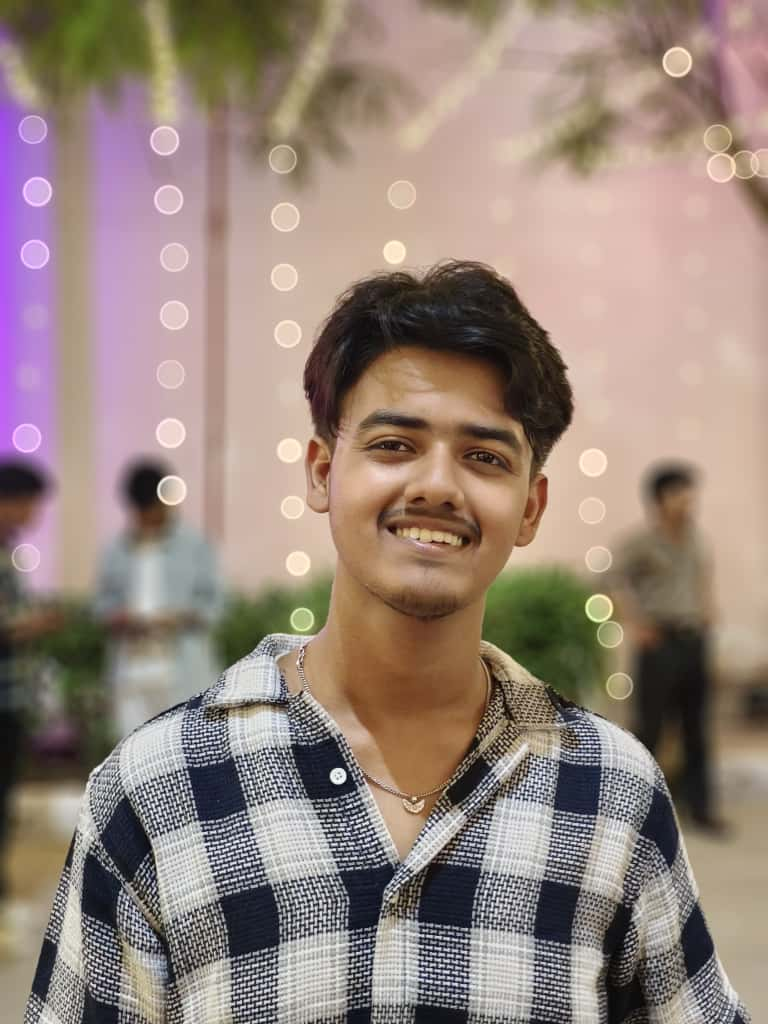
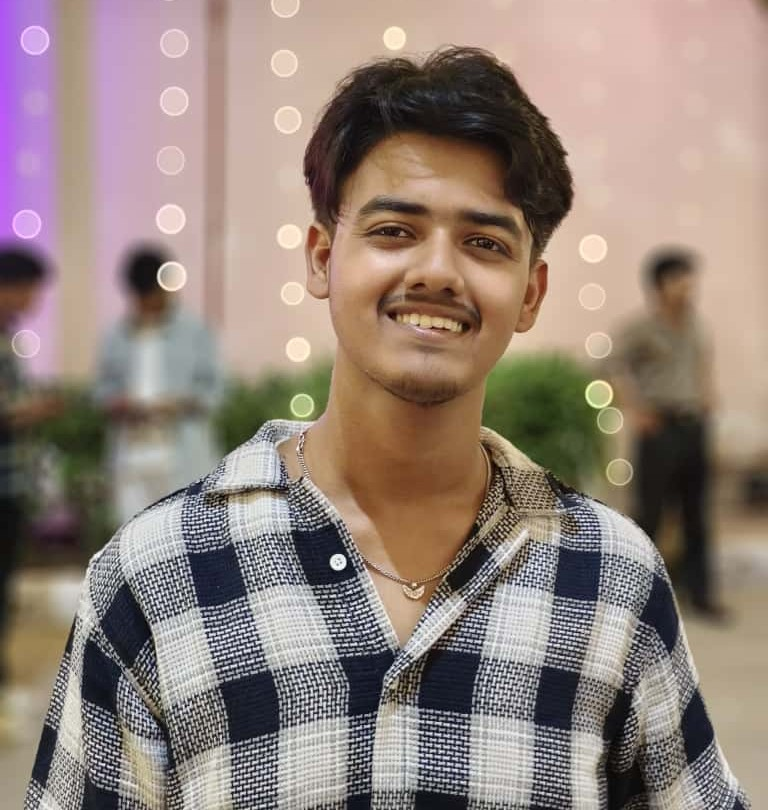
Update Hero section with new PixelFrame component for profile image display, enhance layout and styling, and adjust action button sizes. Replace CampfireObject with improved structure for a cleaner presentation. Update profile image in public directory.

diff --git a/src/components/sections/Hero.jsx b/src/components/sections/Hero.jsx
@@ -1,19 +1,17 @@
 import { profile } from "../../data/profile";
 import { PixelButton } from "../ui/PixelButton";
-import { CampfireObject } from "../world/WorldObjects";
 import { StatusBanner } from "../ui/StatusBanner";
+import { PixelFrame } from "../ui/PixelFrame";
 
 /**
- * Area 1: HOME / START — The Campfire Clearing
- * The starting point of the developer journey. Cozy, welcoming, establishing tone and identity.
+ * Area 1: HOME / START — The Developer Hearth
+ * Features the 2D pixel-art framed portrait side-by-side beside the name, title, subtitle, and action buttons.
  */
 export function Hero() {
   return (
-    <section
-      className="relative min-h-[90vh] flex flex-col items-center text-center px-4 pt-0 pb-16 sm:pb-24"
-    >
+    <section className="relative min-h-[90vh] flex flex-col items-center justify-between px-4 pt-0 pb-12 sm:pb-20">
       {/* Floating Medieval Status Signboard Suspended Directly From Top Navbar */}
-      <div className="w-full flex justify-center -mt-[1px] mb-6 sm:mb-10 z-20">
+      <div className="w-full flex justify-center -mt-[1px] mb-6 sm:mb-8 z-20">
         <StatusBanner
           status={profile.statusBanner?.status || "Open for Opportunities"}
           variant={profile.statusBanner?.variant || "available"}
@@ -21,59 +19,69 @@ export function Hero() {
         />
       </div>
 
-      <div className="max-w-3xl mx-auto space-y-6 my-auto">
-        {/* Hero Title & Identity */}
-        <div className="space-y-3">
-          <h1 className="font-['Cinzel',serif] text-4xl sm:text-6xl md:text-7xl font-extrabold text-[#f4ebd0] tracking-tight drop-shadow-[0_4px_4px_rgba(0,0,0,0.8)]">
+      {/* Main Side-by-Side Hero Container */}
+      <div className="max-w-5xl mx-auto w-full my-auto flex flex-col md:flex-row items-center justify-center gap-8 lg:gap-14 py-4 z-10">
+        {/* Photo Frame Beside Name & Title */}
+        <div className="flex justify-center shrink-0">
+          <PixelFrame
+            src={profile.avatar}
+            alt={profile.name}
+          />
+        </div>
+
+        {/* Name, Developer Title, Subtitle & Actions */}
+        <div className="flex-1 text-center md:text-left space-y-4 max-w-xl">
+
+          {/* Prominent Name */}
+          <h1 className="font-['Cinzel',serif] text-4xl sm:text-5xl lg:text-6xl font-extrabold text-[#f4ebd0] tracking-tight drop-shadow-[0_4px_8px_rgba(0,0,0,0.9)]">
             {profile.name}
           </h1>
-          <p className="font-['Pixelify_Sans',monospace] text-base sm:text-xl text-[#fad97f] uppercase tracking-widest font-semibold">
+
+          {/* Developer Title */}
+          <p className="font-['Pixelify_Sans',monospace] text-lg sm:text-2xl text-[#fad97f] uppercase tracking-wider font-bold drop-shadow-sm">
             {profile.title}
           </p>
-        </div>
 
-        {/* Tagline */}
-        <p className="font-['Plus_Jakarta_Sans',sans-serif] text-base sm:text-lg text-[#cbd5e1] max-w-2xl mx-auto leading-relaxed">
-          {profile.tagline}
-        </p>
+          {/* Subtitle / Tagline */}
+          <p className="font-['Plus_Jakarta_Sans',sans-serif] text-sm sm:text-base text-[#cbd5e1] leading-relaxed max-w-lg">
+            {profile.tagline}
+          </p>
 
-        {/* Cozy Campfire Prop */}
-        <CampfireObject />
-
-        {/* Action Controls */}
-        <div className="flex flex-wrap items-center justify-center gap-4 pt-2">
-          <PixelButton
-            variant="gold"
-            size="lg"
-            href="#about"
-          >
-            Begin Journey ➔
-          </PixelButton>
-          <PixelButton
-            variant="stone"
-            size="lg"
-            href="#projects"
-          >
-            Explore Guild Quests 📜
-          </PixelButton>
-        </div>
-
-        {/* Adventure Stats Bar */}
-        <div className="grid grid-cols-2 sm:grid-cols-4 gap-3 pt-8 max-w-2xl mx-auto">
-          {profile.stats.map((stat) => (
-            <div
-              key={stat.label}
-              className="bg-[#171b22]/90 border-2 border-[#313845] p-3 shadow-[0_3px_0_0_#0a0e14]"
+          {/* Action Buttons */}
+          <div className="flex flex-wrap items-center justify-center md:justify-start gap-3 pt-2">
+            <PixelButton
+              variant="gold"
+              size="md"
+              href="#about"
             >
-              <div className="font-['Pixelify_Sans',monospace] text-xl sm:text-2xl font-bold text-[#fad97f]">
-                {stat.value}
-              </div>
-              <div className="font-['Plus_Jakarta_Sans',sans-serif] text-xs text-[#94a3b8] mt-0.5">
-                {stat.label}
-              </div>
-            </div>
-          ))}
+              Begin Journey ➔
+            </PixelButton>
+            <PixelButton
+              variant="stone"
+              size="md"
+              href="#projects"
+            >
+              Explore Guild Quests 📜
+            </PixelButton>
+          </div>
         </div>
+      </div>
+
+      {/* Adventure Stats Bar */}
+      <div className="w-full max-w-4xl mx-auto grid grid-cols-2 sm:grid-cols-4 gap-3 pt-6 pb-2 z-10">
+        {profile.stats.map((stat) => (
+          <div
+            key={stat.label}
+            className="bg-[#171b22]/90 border-2 border-[#313845] p-3 shadow-[0_3px_0_0_#0a0e14] text-center"
+          >
+            <div className="font-['Pixelify_Sans',monospace] text-lg sm:text-xl font-bold text-[#fad97f]">
+              {stat.value}
+            </div>
+            <div className="font-['Plus_Jakarta_Sans',sans-serif] text-xs text-[#94a3b8] mt-0.5">
+              {stat.label}
+            </div>
+          </div>
+        ))}
       </div>
     </section>
   );

diff --git a/src/components/ui/PixelFrame.jsx b/src/components/ui/PixelFrame.jsx
@@ -1,0 +1,48 @@
+import { cn } from "../../utils/classNames";
+
+/**
+ * PixelFrame — A2D pixel-art carved wooden portrait frame with gold corner brackets.
+ * Designed to hold the developer portrait photo beside the name, title, and subtitle in Hero.
+ */
+export function PixelFrame({
+  src,
+  alt = "Profile Portrait",
+  className = "",
+  children,
+}) {
+  return (
+    <div className={cn("relative inline-block select-none", className)}>
+      {/* Outer Carved Timber Frame */}
+      <div className="relative p-2.5 sm:p-3 bg-[#422212] border-4 border-[#1a0e07]">
+        {/* Inner Gilded Bevel / Matting */}
+        <div className="relative p-1 bg-[#1a202c] border-2 border-[#78540c]">
+          {/* Portrait Image Container */}
+          <div className="relative w-44 h-52 sm:w-52 sm:h-60 md:w-56 md:h-68 lg:w-64 lg:h-76 overflow-hidden bg-[#0d1117]">
+            <img
+              src={src}
+              alt={alt}
+              className="w-full h-full object-cover object-top filter brightness-95 contrast-105"
+              loading="eager"
+            />
+          </div>
+        </div>
+
+        {/* 4 Decorative 2D Pixel Corner Brackets (Brass/Gold) */}
+        <div className="absolute -top-1.5 -left-1.5 w-4 h-4 bg-[#fad97f] border-2 border-[#24140a] flex items-center justify-center">
+          <div className="w-1 h-1 bg-[#24140a]" />
+        </div>
+        <div className="absolute -top-1.5 -right-1.5 w-4 h-4 bg-[#fad97f] border-2 border-[#24140a] flex items-center justify-center">
+          <div className="w-1 h-1 bg-[#24140a]" />
+        </div>
+        <div className="absolute -bottom-1.5 -left-1.5 w-4 h-4 bg-[#fad97f] border-2 border-[#24140a] flex items-center justify-center">
+          <div className="w-1 h-1 bg-[#24140a]" />
+        </div>
+        <div className="absolute -bottom-1.5 -right-1.5 w-4 h-4 bg-[#fad97f] border-2 border-[#24140a] flex items-center justify-center">
+          <div className="w-1 h-1 bg-[#24140a]" />
+        </div>
+      </div>
+
+      {children}
+    </div>
+  );
+}
